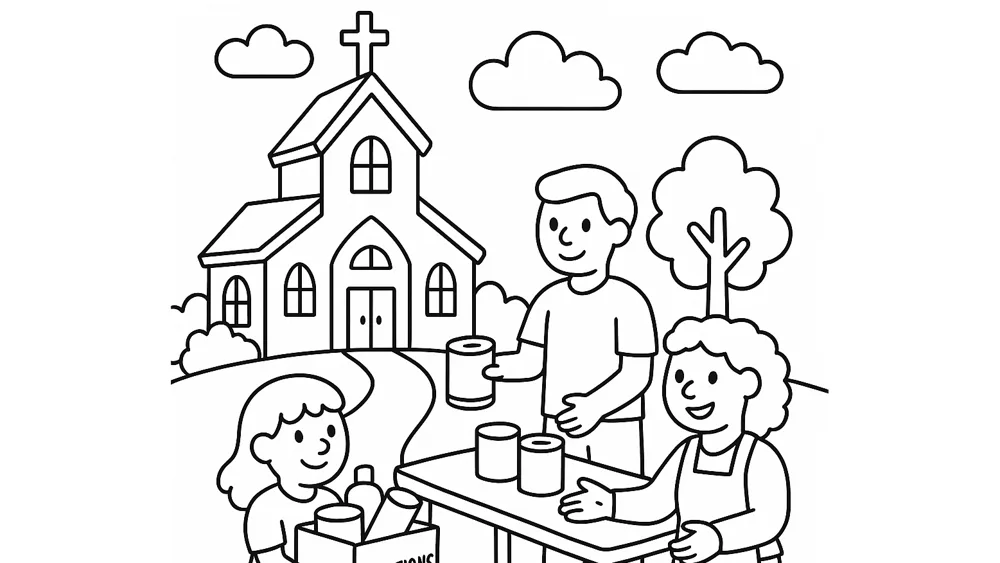
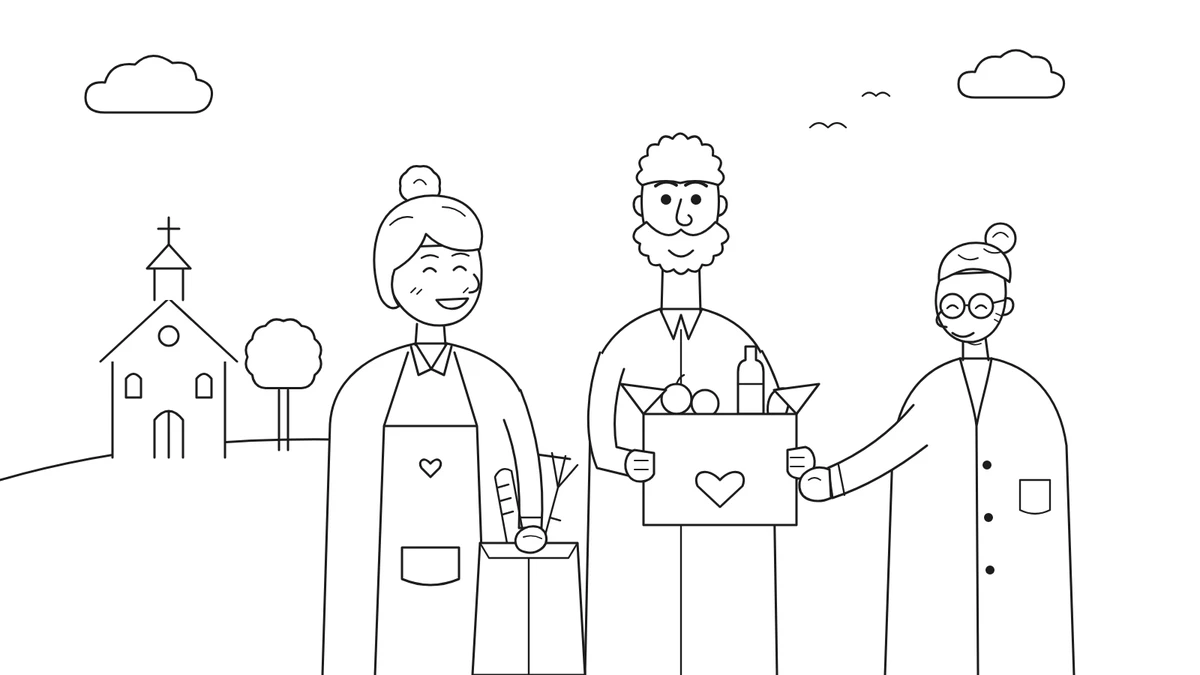
Add files via upload

diff --git a/index.html b/index.html
@@ -2,6 +2,7 @@
 <html lang="ko">
 <head>
 <meta charset="utf-8">
+<meta name="color-scheme" content="light">
 <meta name="viewport" content="width=device-width,initial-scale=1,viewport-fit=cover">
 <meta property="og:type" content="website">
 <meta property="og:title" content="한국교회 사회봉사 자가진단">
@@ -19,15 +20,10 @@ body{margin:0}
 :root{
   --bg:#ffffff; --paper:#f4f8f5; --ink:#1d2a22; --muted:#5f6f66; --line:#dbe6df;
   --green:#02783c; --green-ink:#ffffff; --green-soft:#e3f1e8; --blue:#4d80bf;
+  color-scheme:light;
   --display:"Gowun Batang","Noto Serif KR",serif;
   --body:"Noto Sans KR","Apple SD Gothic Neo","Malgun Gothic",sans-serif;
 }
-@media (prefers-color-scheme:dark){:root:not([data-theme="light"]){
-  --bg:#111814; --paper:#18221c; --ink:#e6eee9; --muted:#9aaba1; --line:#2a3a31;
-  --green:#3fae6e; --green-ink:#0b1510; --green-soft:#1d3427; --blue:#86aee0; color-scheme:dark}}
-:root[data-theme="dark"]{
-  --bg:#111814; --paper:#18221c; --ink:#e6eee9; --muted:#9aaba1; --line:#2a3a31;
-  --green:#3fae6e; --green-ink:#0b1510; --green-soft:#1d3427; --blue:#86aee0; color-scheme:dark}
 *{box-sizing:border-box}
 body{background:var(--bg);color:var(--ink);font-family:var(--body);font-size:16px;line-height:1.7;
   padding-left:max(16px,env(safe-area-inset-left,0px));padding-right:max(16px,env(safe-area-inset-right,0px));padding-block:24px 48px;word-break:keep-all}
@@ -36,7 +32,7 @@ h1,h2,h3{font-family:var(--display);text-wrap:balance;margin:0}
 p{margin:0}
 .btn{appearance:none;border:0;cursor:pointer;font:inherit;font-weight:700;border-radius:999px;padding:14px 22px;
   background:var(--green);color:var(--green-ink);display:inline-flex;align-items:center;justify-content:center;gap:6px;text-decoration:none;width:100%;font-size:17px}
-.btn:hover{filter:brightness(1.06)}
+
 .btn.ghost{background:transparent;color:var(--green);border:1.5px solid var(--green)}
 .btn:focus-visible,.opt:focus-visible,.back:focus-visible,input:focus-visible{outline:3px solid var(--blue);outline-offset:2px}
 .screen{display:flex;flex-direction:column;gap:22px}
@@ -67,7 +63,7 @@ input[type=text]::placeholder{color:var(--muted)}
 .opts{display:flex;flex-direction:column;gap:10px}
 .opt{appearance:none;font:inherit;text-align:left;cursor:pointer;padding:16px 18px;border-radius:14px;border:1.5px solid var(--line);background:var(--bg);color:var(--ink);font-size:17px;display:flex;align-items:center;gap:12px;transition:border-color .15s,background .15s}
 .opt .dot{flex:none;width:20px;height:20px;border-radius:50%;border:2px solid var(--line)}
-.opt:hover{border-color:var(--green)}
+@media (hover:hover){.btn:hover{filter:brightness(1.06)}.opt:hover{border-color:var(--green)}}
 .opt.sel{border-color:var(--green);background:var(--green-soft)}
 .opt.sel .dot{border-color:var(--green);background:radial-gradient(var(--green) 45%,transparent 50%)}
 
